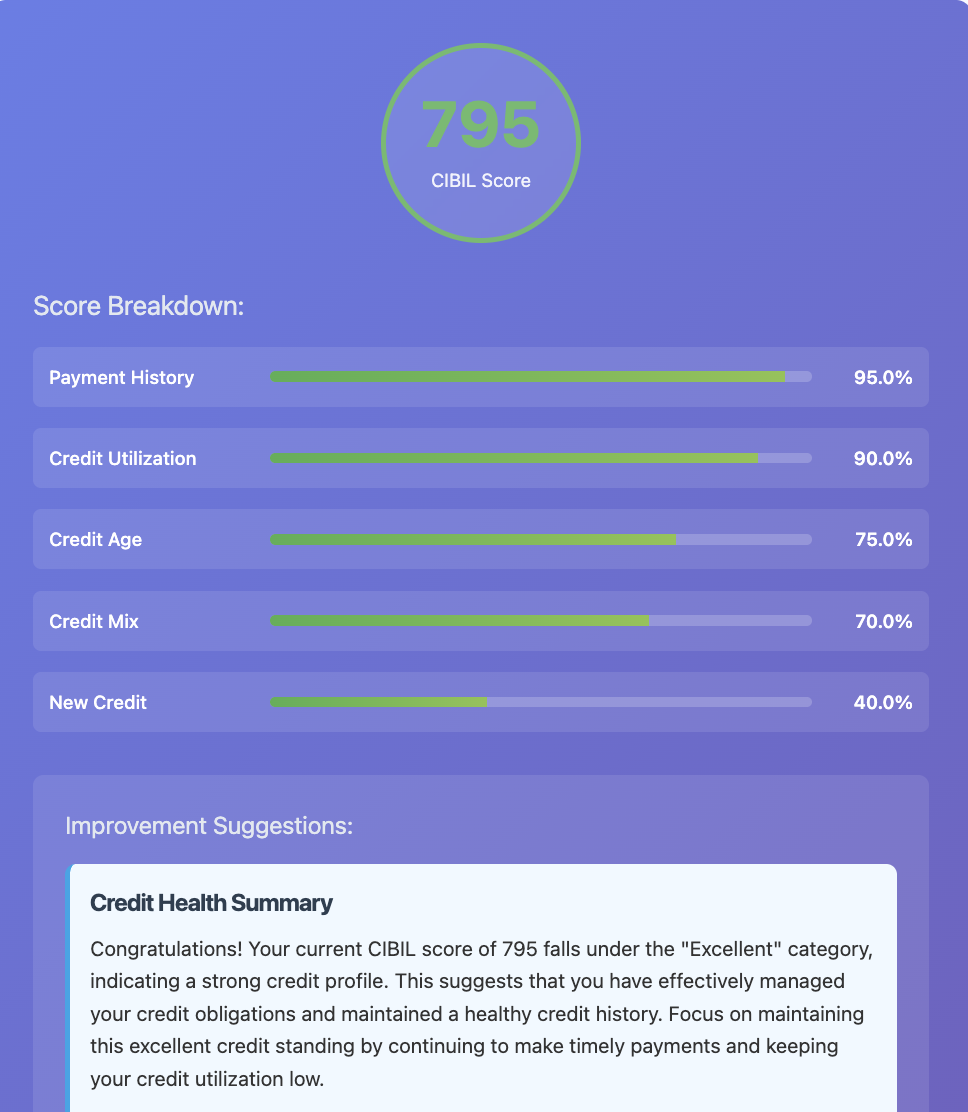
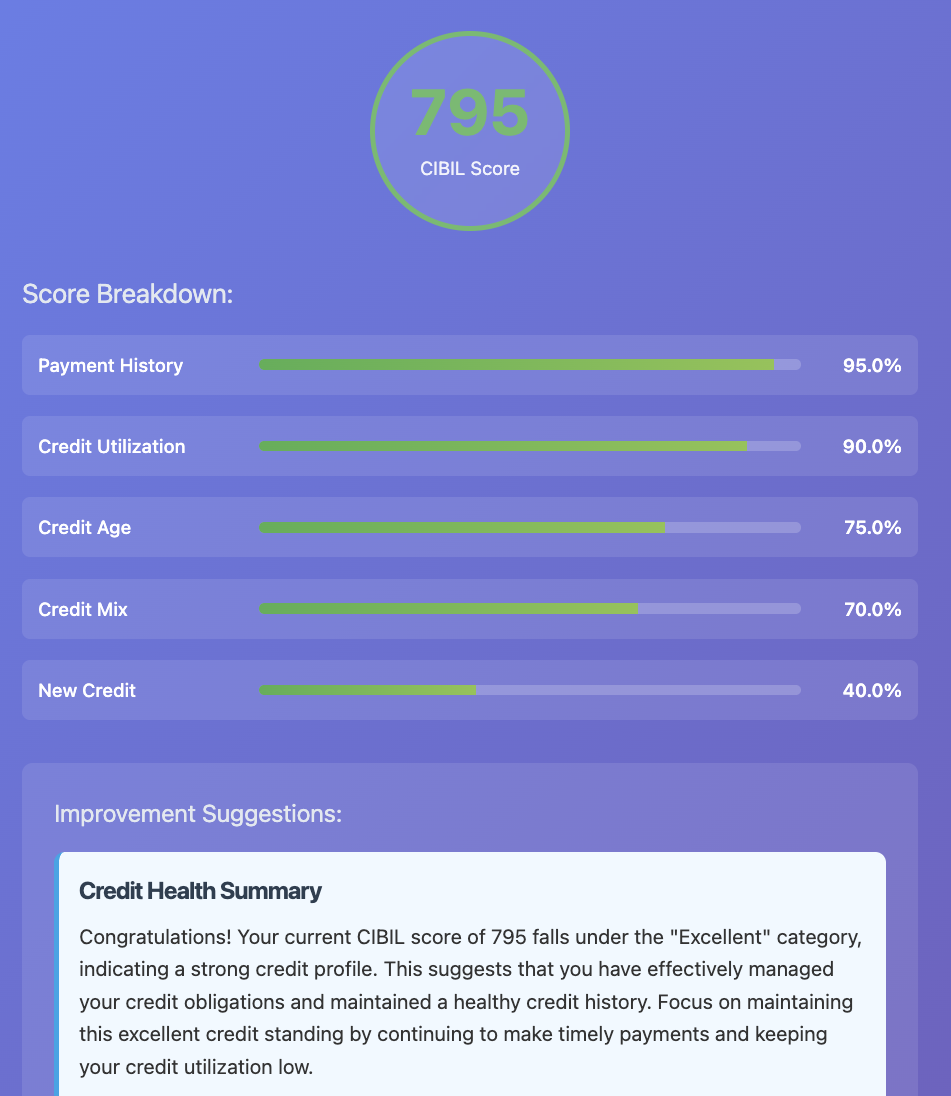
pic updates

diff --git a/README.md b/README.md
@@ -53,7 +53,8 @@
 ---
 
 ### Authentication & History
-- **Secure Authentication:** User login and session management.
+- **Secure Authentication:** User signup, login, and JWT-based session management.
+- **Password Recovery:** Reset passwords securely via email.
 - **History Tracking:** Stores previous loan predictions and CIBIL checks.
 
 ---
@@ -68,3 +69,8 @@
 | **AI / ML** | Scikit-learn, SHAP and LangChain |
 | **MLOps** | MLflow and DVC |
 | **Authentication** | JWT |
+
+## Developers
+
+- [Armaan Jagirdar](https://github.com/Armaan457)
+- [Khusham Bansal](https://github.com/KhushamBansal)